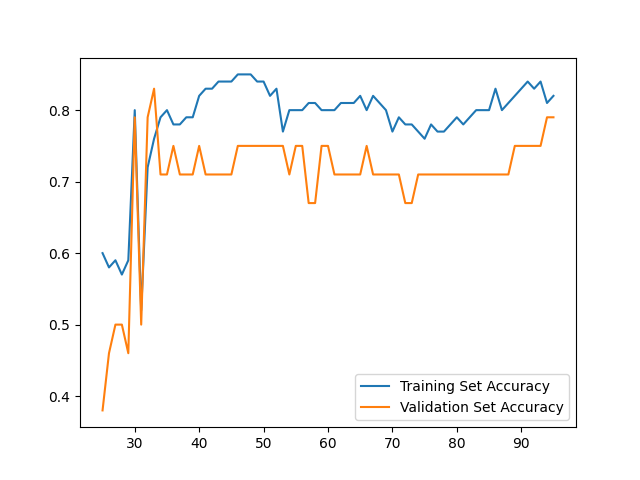
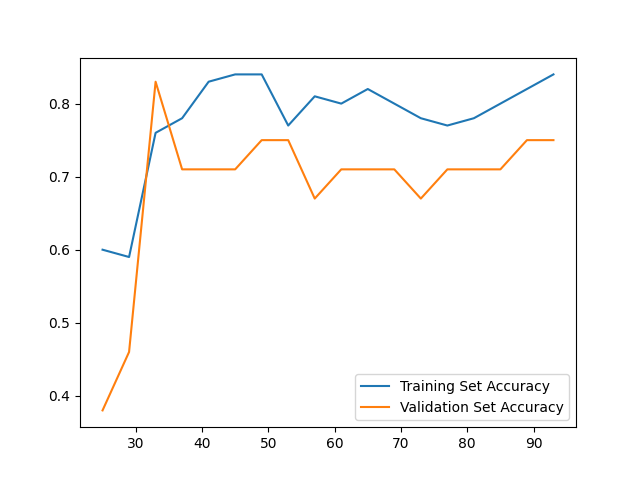
Separated learning curve accuracy measurement in a separate function

diff --git a/evaml/classification/_super.py b/evaml/classification/_super.py
@@ -37,7 +37,7 @@ class MLModel:
     :argument
     """
     _START_DATA_SIZE = 25
-    _INCREMENT_RATE = 2
+    _INCREMENT_RATE = 5
 
     def _generate_evaluation_metrics(self, model, X_train, y_train, X_val, y_val, X_test, y_test):
         """
@@ -49,7 +49,21 @@ class MLModel:
         :param y_val:
         :return:
         """
-        learning_curve_data = []
+
+        precision, recall, fscore, support, accuracy = self._precision_recall_fscore_support_accuracy(model, X_train, y_train, X_test, y_test)
+        learning_curve_data = self._learning_curve_accuracy_measurement(model, X_train, y_train, X_val, y_val)
+        return precision, recall, fscore, support, accuracy, learning_curve_data
+
+    def _precision_recall_fscore_support_accuracy(self, model, X_train, y_train, X_test, y_test):
+        model.fit(X_train, y_train)
+        y_pred = model.predict(X_test)
+        precision, recall, fscore, support = precision_recall_fscore_support(y_test, y_pred, average='weighted')
+        accuracy = self._calculate_accuracy(model, X_test, y_test)
+
+        return round(precision, 2), round(recall, 2), round(fscore, 2), support, round(accuracy, 2)
+
+    def _learning_curve_accuracy_measurement(self, model, X_train, y_train, X_val, y_val):
+        learning_curve_accuracy = []
 
         start = self._START_DATA_SIZE
         end = len(y_train)
@@ -60,18 +74,12 @@ class MLModel:
             train_accuracy = self._calculate_accuracy(model, X_train[:data_size, :], y_train[:data_size])
             val_accuracy = self._calculate_accuracy(model, X_val, y_val)
 
-            learning_curve_data.append([data_size, round(train_accuracy, 2), round(val_accuracy, 2)])
+            learning_curve_accuracy.append([data_size, round(train_accuracy, 2), round(val_accuracy, 2)])
 
-        precision, recall, fscore, support, accuracy = self._precision_recall_fscore_support_accuracy(model, X_train, y_train, X_test, y_test)
-        return precision, recall, fscore, support, accuracy, learning_curve_data
+        return learning_curve_accuracy
 
-    def _precision_recall_fscore_support_accuracy(self, model, X_train, y_train, X_test, y_test):
-        model.fit(X_train, y_train)
-        y_pred = model.predict(X_test)
-        precision, recall, fscore, support = precision_recall_fscore_support(y_test, y_pred, average='weighted')
-        accuracy = self._calculate_accuracy(model, X_test, y_test)
-
-        return round(precision, 2), round(recall, 2), round(fscore, 2), support, round(accuracy, 2)
+    def _learning_curve_error_measurement(self, model, X_train, y_train, X_val, y_val):
+        pass
 
     def _calculate_accuracy(self, model, X, y):
         return model.score(X, y)
